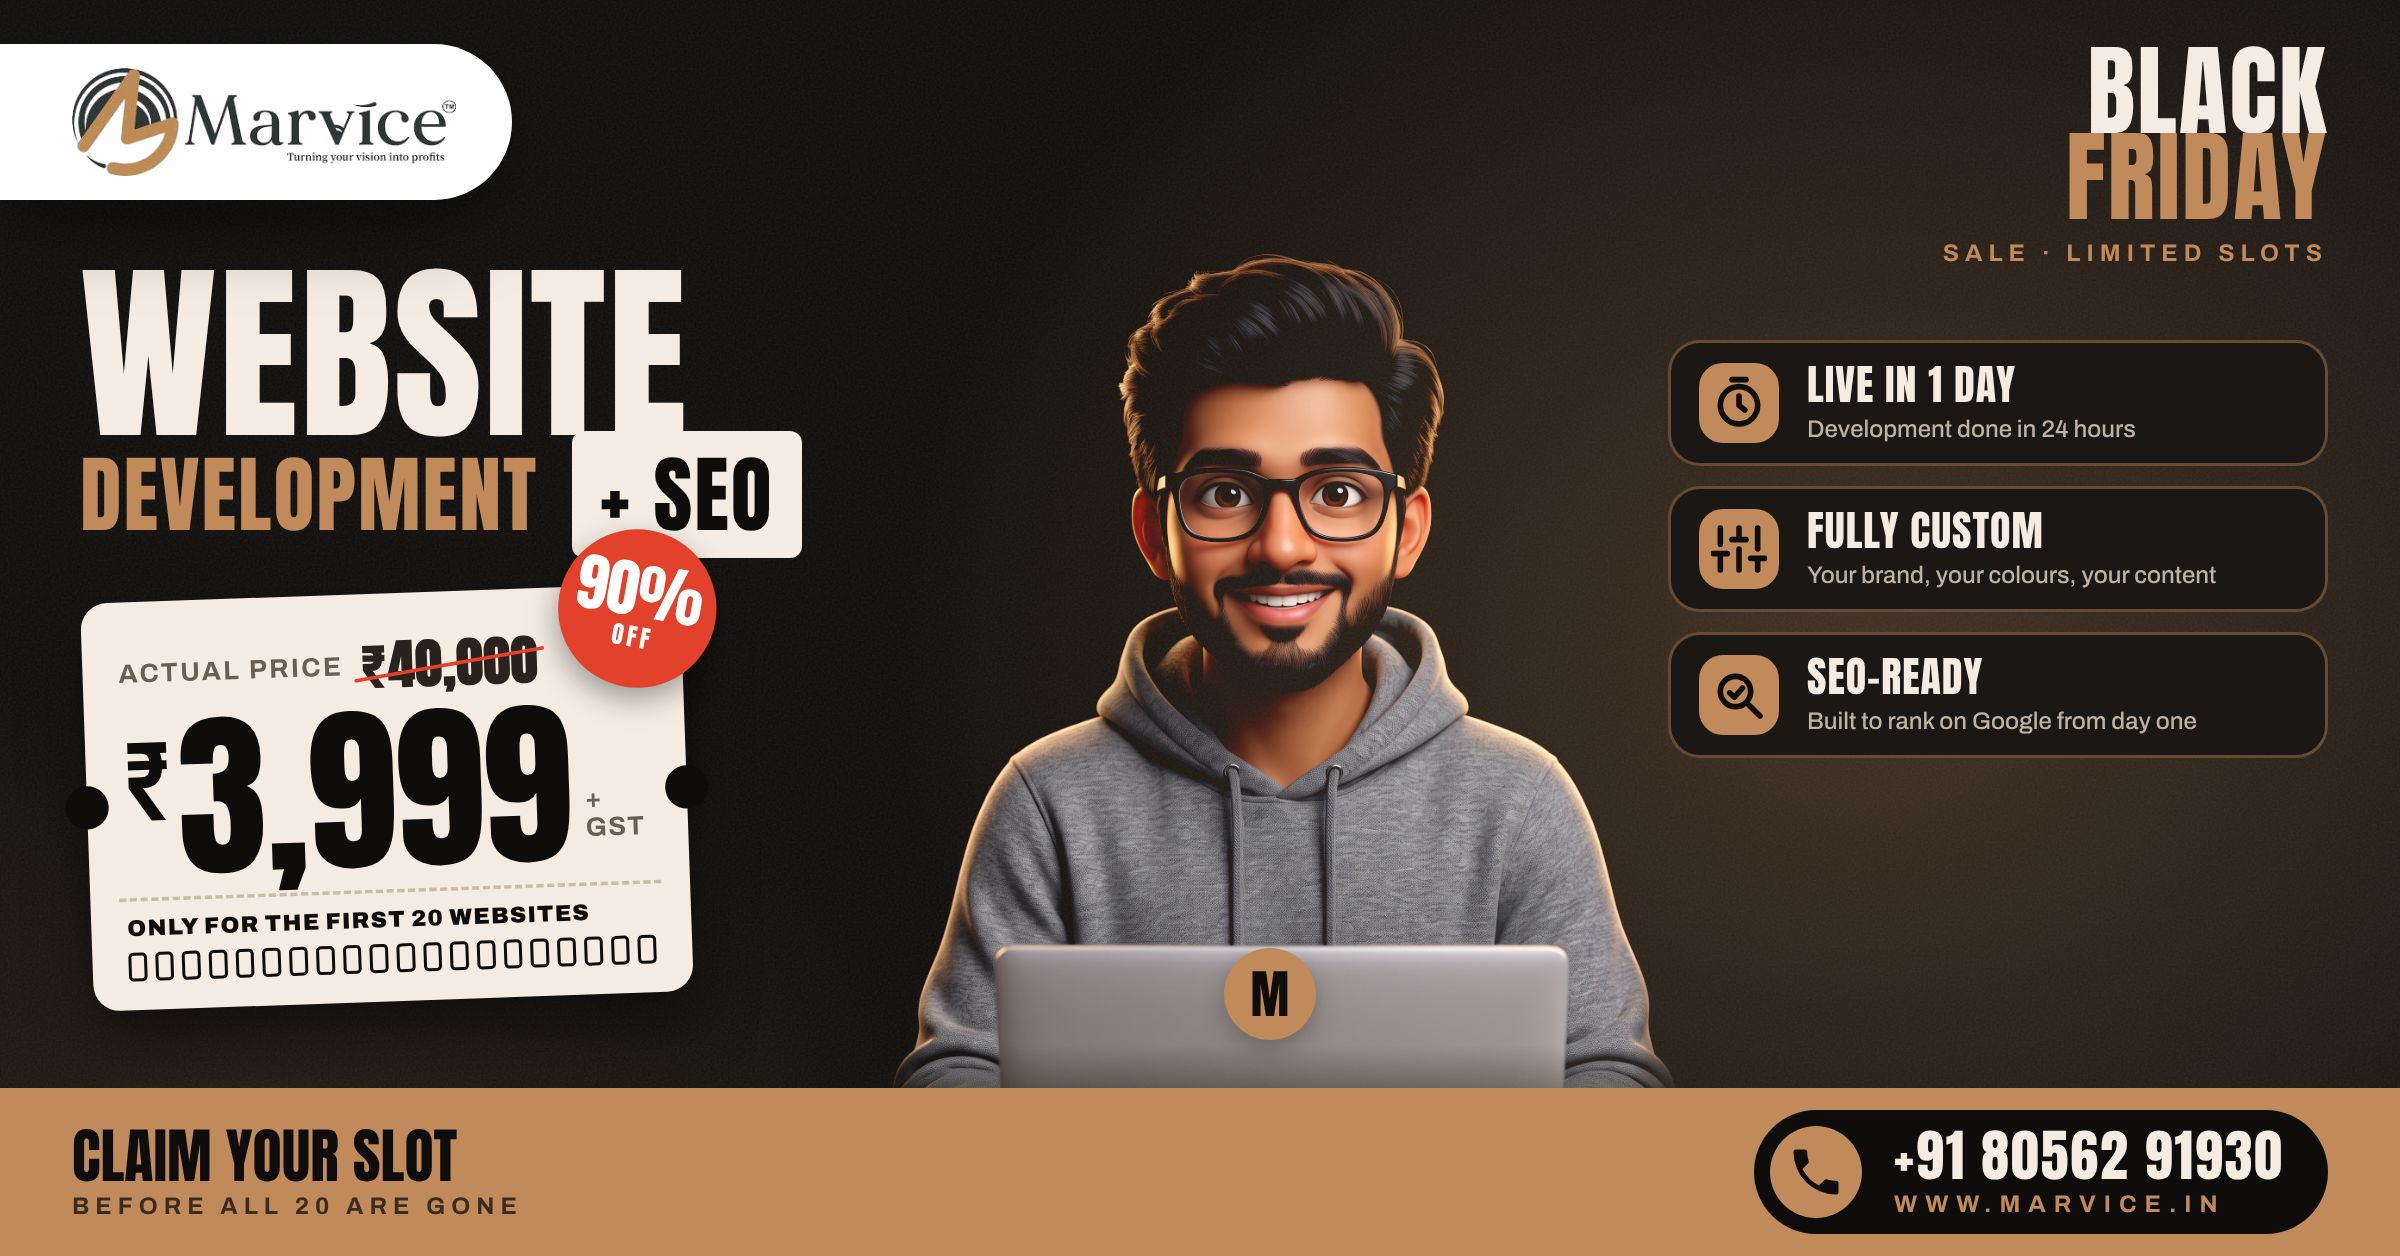
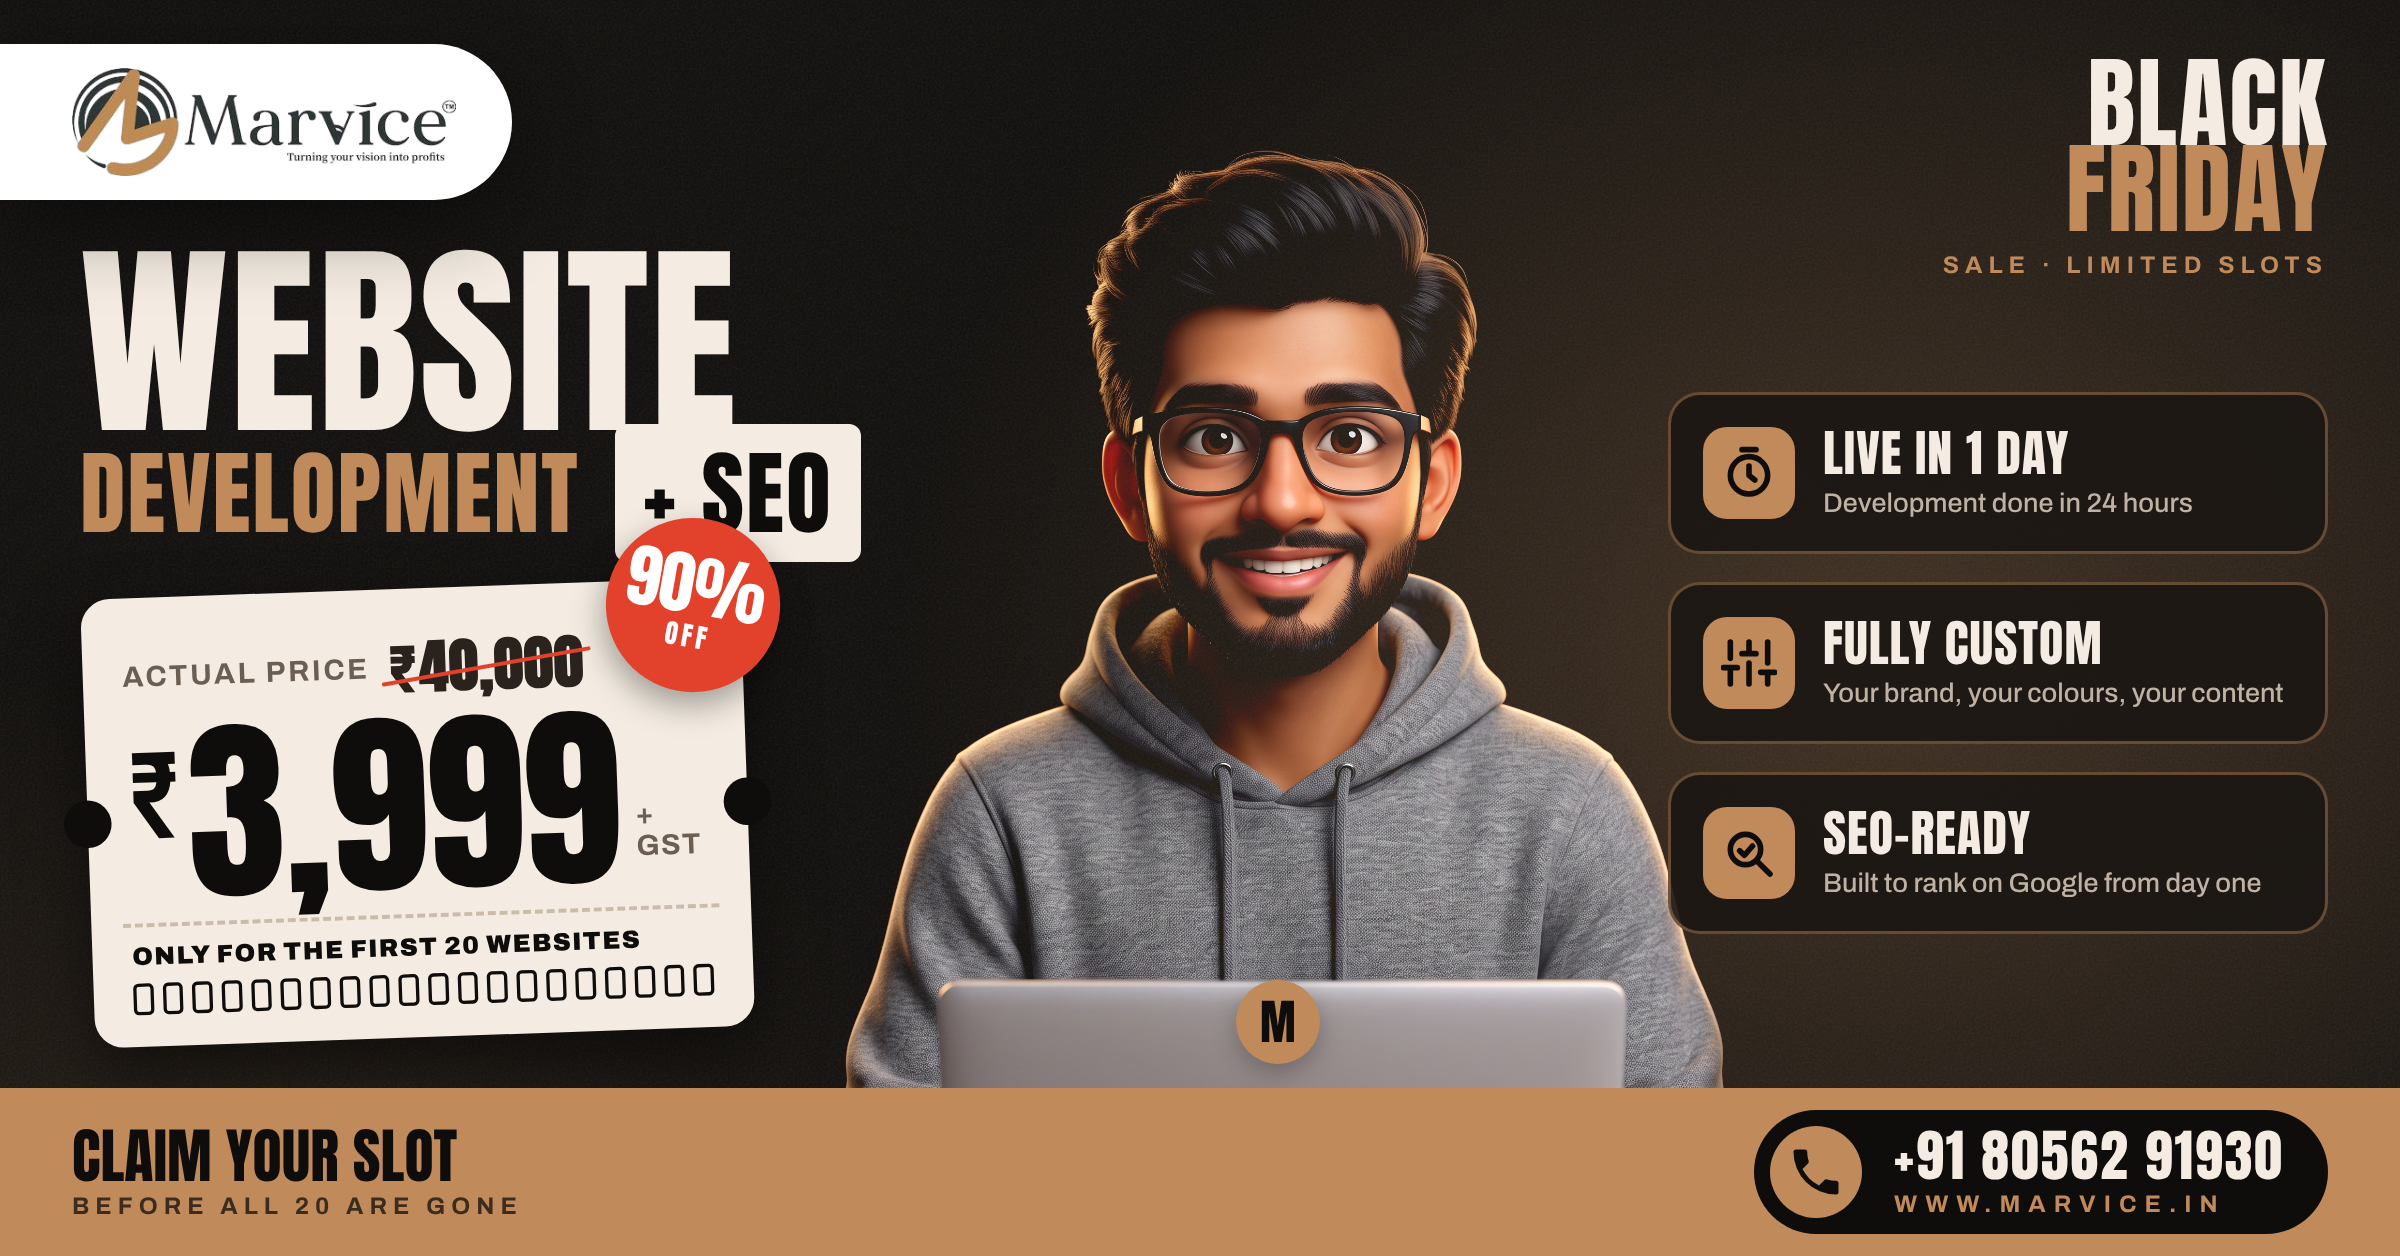
Tighten square and landscape poster layouts, remove dead space
Claude-Session: https://claude.ai/code/session_01PyBkioxH5JCcYGBu94jnbd

diff --git a/posters/black-friday-3999/poster.html b/posters/black-friday-3999/poster.html
@@ -86,12 +86,12 @@
   html.sq .logo{top:30px;padding:16px 32px 16px 44px}html.sq .logo img{height:70px}
   html.sq .bf{top:34px;right:48px}html.sq .bf .k{font-size:64px}html.sq .bf .d{display:none}
   html.sq .tape{top:178px;height:48px;font-size:24px}
-  html.sq .head{left:50px;top:286px}html.sq .head .l1{font-size:112px}html.sq .head .l2{font-size:50px}
-  html.sq .ticket{left:50px;top:492px;transform:rotate(-2deg) scale(.78);transform-origin:top left}
-  html.sq .char{width:480px;top:246px;right:-22px}
-  html.sq .badge-m{left:836px;top:740px;width:52px;height:52px;font-size:28px}
-  html.sq .feats{top:842px;left:50px;right:50px}html.sq .f{padding:12px 14px}html.sq .f .ic{width:44px;height:44px}html.sq .f h4{font-size:22px}html.sq .f p{font-size:13px}
-  html.sq .foot{height:118px;padding:0 50px}html.sq .foot .cta{font-size:36px}html.sq .call .n{font-size:32px}html.sq .call .ph{width:52px;height:52px}
+  html.sq .head{left:50px;top:274px}html.sq .head .l1{font-size:122px}html.sq .head .l2{font-size:54px}
+  html.sq .ticket{left:50px;top:488px;transform:rotate(-2deg) scale(.9);transform-origin:top left}
+  html.sq .char{width:610px;top:196px;right:-70px}
+  html.sq .badge-m{left:806px;top:792px;width:58px;height:58px;font-size:32px}
+  html.sq .feats{top:858px;left:50px;right:50px}html.sq .f{padding:14px 16px;background:rgba(27,23,20,.92)}html.sq .f .ic{width:44px;height:44px}html.sq .f h4{font-size:22px}html.sq .f p{font-size:13px}
+  html.sq .foot{height:110px;padding:0 50px}html.sq .foot .cta{font-size:36px}html.sq .call .n{font-size:32px}html.sq .call .ph{width:52px;height:52px}
 
   /* Story 1080x1920 — IG/FB stories, reels cover, WhatsApp status (top/bottom 250px kept clear) */
   html.st body,html.st .poster{width:1080px;height:1920px}
@@ -109,13 +109,13 @@
   html.ls body,html.ls .poster{width:1200px;height:628px}
   html.ls .tape{display:none}
   html.ls .logo{top:22px;padding:12px 28px 12px 36px}html.ls .logo img{height:54px}
-  html.ls .bf{top:24px;right:36px}html.ls .bf .k{font-size:50px}html.ls .bf .d{font-size:12px;letter-spacing:3px}
-  html.ls .head{left:40px;top:134px}html.ls .head .l1{font-size:96px}html.ls .head .l2{font-size:42px}
-  html.ls .ticket{left:40px;top:302px;transform:rotate(-2deg) scale(.6);transform-origin:top left}
-  html.ls .char{width:400px;top:96px;right:auto;left:440px}
-  html.ls .badge-m{left:612px;top:474px;width:46px;height:46px;font-size:26px}
-  html.ls .feats{left:auto;right:36px;top:170px;width:330px;grid-template-columns:1fr;gap:10px}
-  html.ls .f{padding:10px 14px}html.ls .f .ic{width:40px;height:40px}html.ls .f h4{font-size:21px}html.ls .f p{font-size:12px}
+  html.ls .bf{top:30px;right:36px}html.ls .bf .k{font-size:50px}html.ls .bf .d{font-size:12px;letter-spacing:3px}
+  html.ls .head{left:40px;top:124px}html.ls .head .l1{font-size:104px}html.ls .head .l2{font-size:46px}
+  html.ls .ticket{left:40px;top:300px;transform:rotate(-2deg) scale(.66);transform-origin:top left}
+  html.ls .char{width:480px;top:38px;right:auto;left:400px}
+  html.ls .badge-m{left:618px;top:490px;width:42px;height:42px;font-size:24px}
+  html.ls .feats{left:auto;right:36px;top:196px;width:330px;grid-template-columns:1fr;gap:14px}
+  html.ls .f{padding:16px 16px;background:rgba(27,23,20,.92)}html.ls .f .ic{width:46px;height:46px}html.ls .f h4{font-size:25px}html.ls .f p{font-size:13.5px}
   html.ls .foot{height:84px;padding:0 36px}html.ls .foot .cta{font-size:30px}html.ls .foot .cta small{font-size:12px;margin-top:4px}
   html.ls .call{padding:8px 22px 8px 8px}html.ls .call .ph{width:46px;height:46px}html.ls .call .n{font-size:28px}html.ls .call .w{font-size:12px}
 </style>
